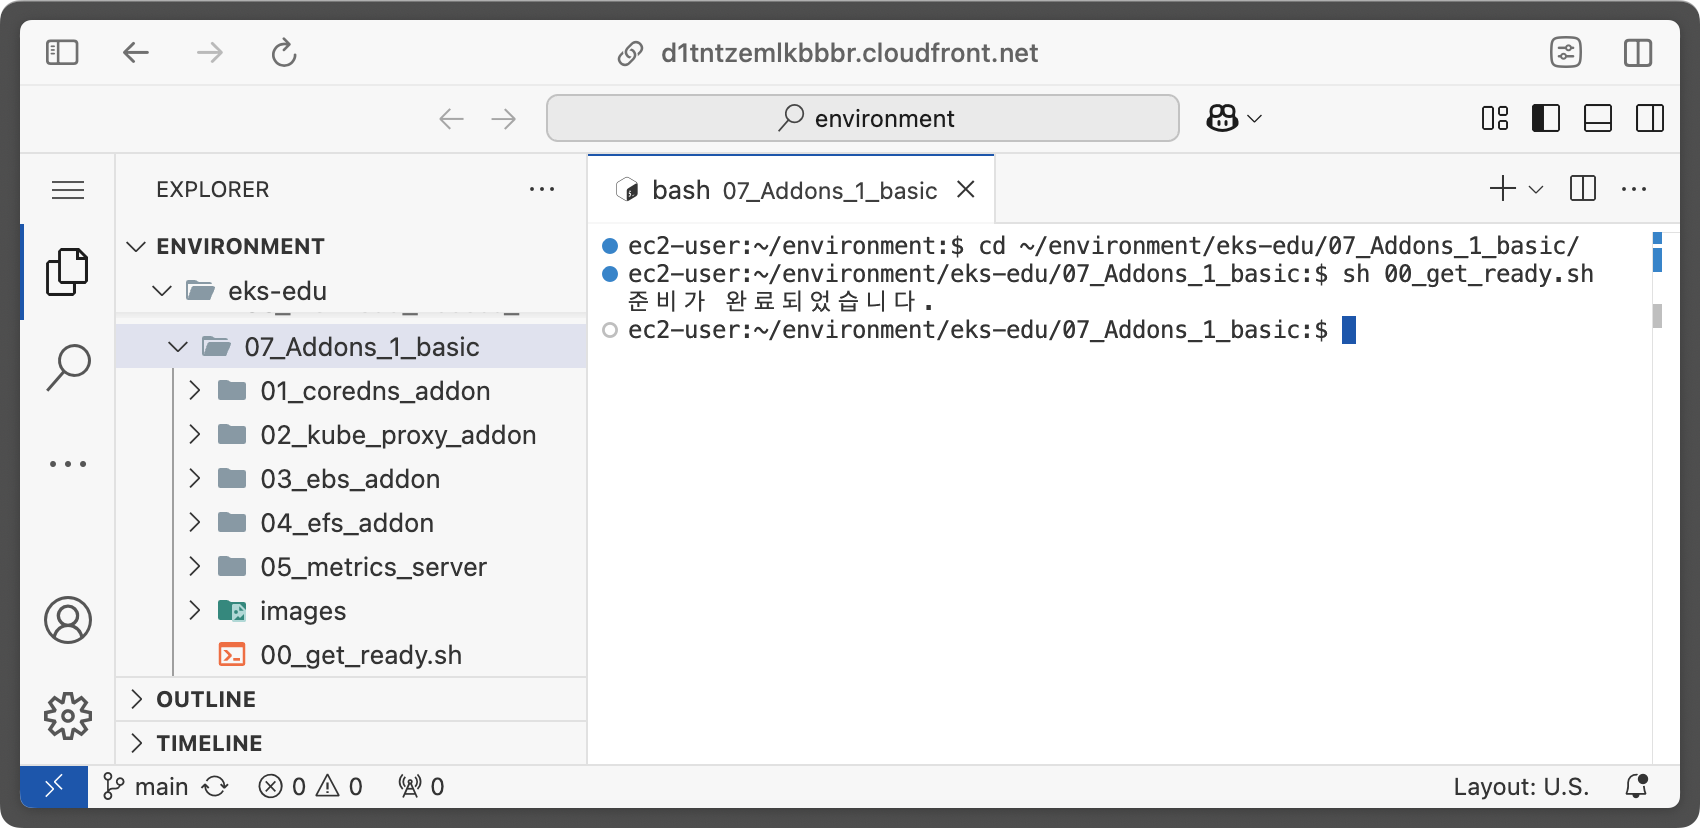
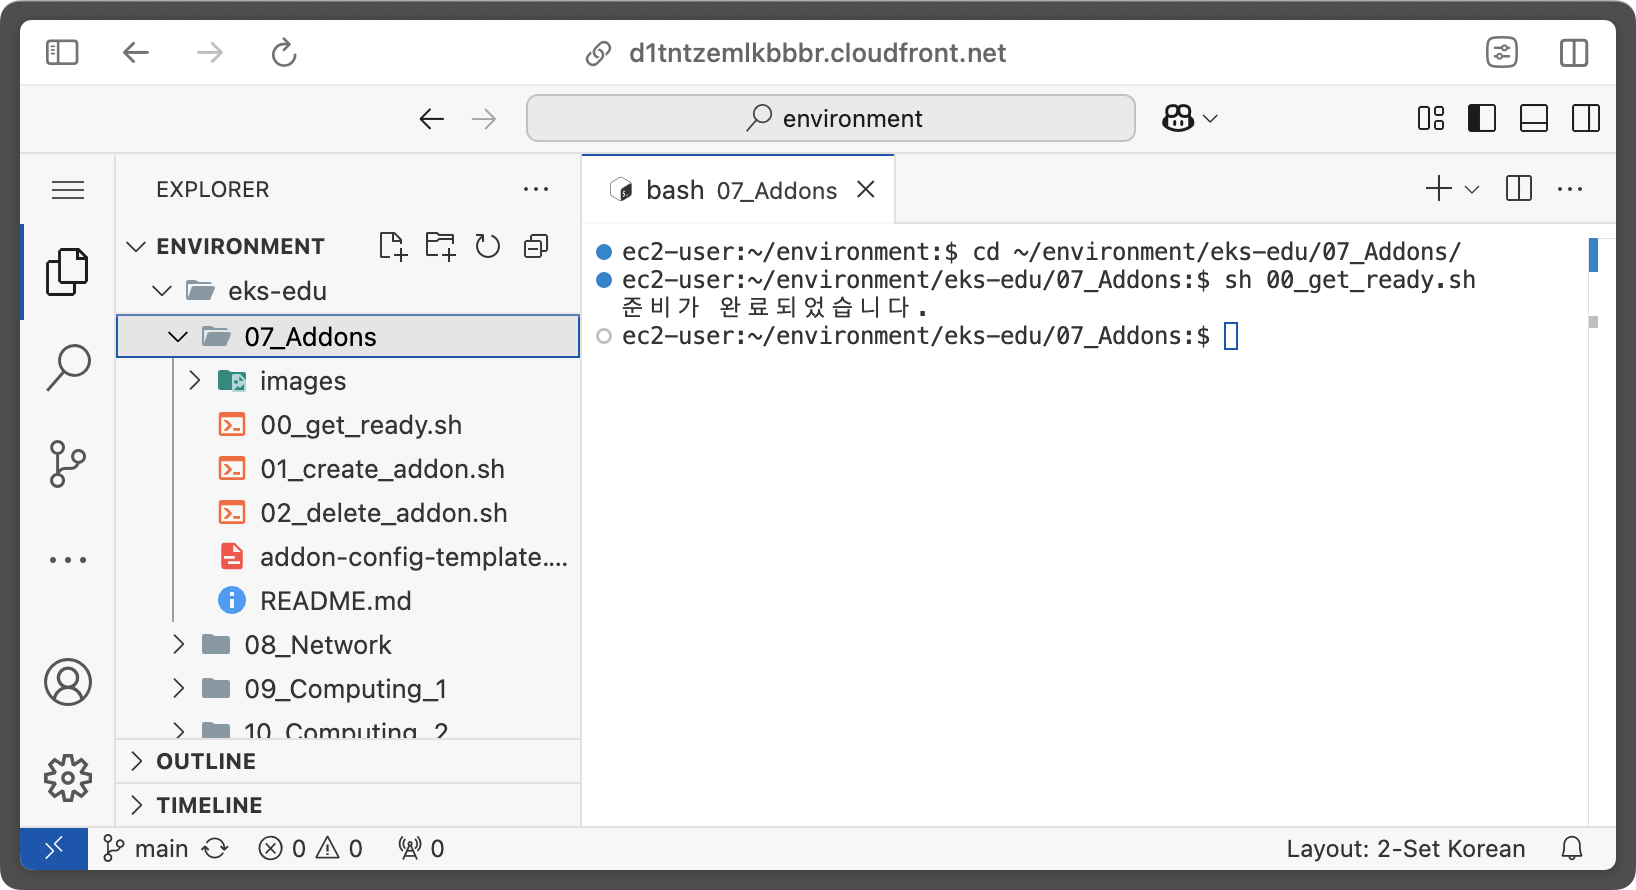
docs: 변경된 폴더에 맞게 정리

diff --git a/07_Addons/README.md b/07_Addons/README.md
@@ -1,4 +1,4 @@
-# 추가 기능 (Add-on) - 기본
+# 추가 기능 (Add-on) 관리
 
 ## 0. 사전 조건
 
@@ -21,7 +21,7 @@
 ## 2. 개요
 EKS 추가 기능(Add-on)은 EKS 클러스터 생성 후, EKS 관리를 위해 다양한 Application을 손쉽게 설치 및 관리할 수 있도록 해주는 기능입니다.
 
-AWS에서는 EKS 추가 기능을 다음의 3가지 유형으로 구분하여 제공합니다.
+EKS 추가 기능은 다음의 3가지 유형으로 구분하여 제공합니다.
 
 | 유형                      | 설명                                            |
 |---------------------------|-------------------------------------------------|
@@ -240,7 +240,7 @@ sh 00_get_ready.sh
 
 ![추가 기능 설치 전 확인](images/addon-check.png)
 
-노드 모니터링 에이전트 추가 기능을 `eksctl` 용 Config 파일을 이용해 생성하기 위해 아래 파일을 준비했습니다.
+`eksctl`를 이용하여 노드 모니터링 에이전트 추가 기능을 생성하기 위해 아래 파일을 준비했습니다.
 
 - `eks-edu/07_Addons/addon-config-template.yaml`
   ```yaml
@@ -263,6 +263,8 @@ source ../env.sh
 envsubst < addon-config-template.yaml | eksctl create addon -f -
 ```
 
+![추가 기능 설치](images/addon-create.png)
+
 생성된 추가 기능 삭제는 `eksctl delete addon` 명령을 이용할 수 있습니다.
 
 ```shell
@@ -271,4 +273,4 @@ source ../env.sh
 eksctl delete addon --cluster $CLUSTER_NAME --name eks-node-monitoring-agent
 ```
 
-![추가 기능 설치 실습 #1](images/addon-create.png)
+![추가 기능 삭제](images/addon-delete.png)
